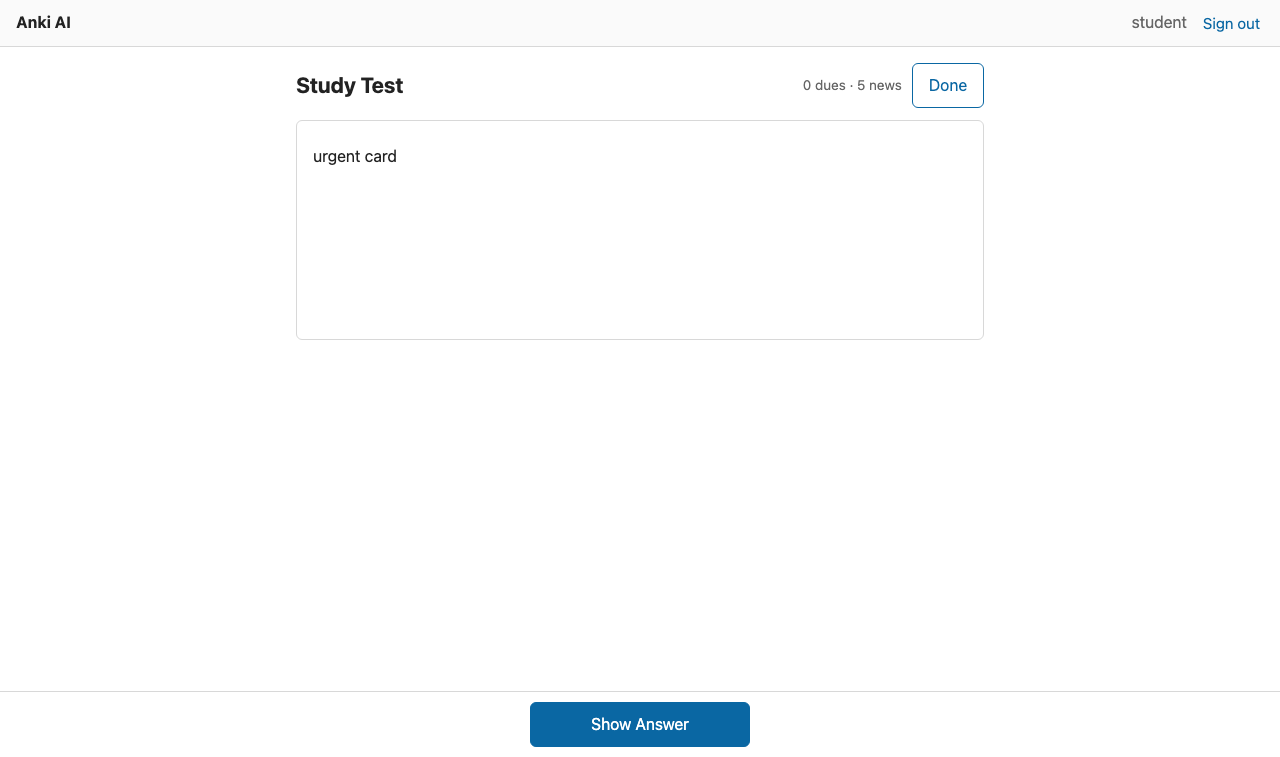
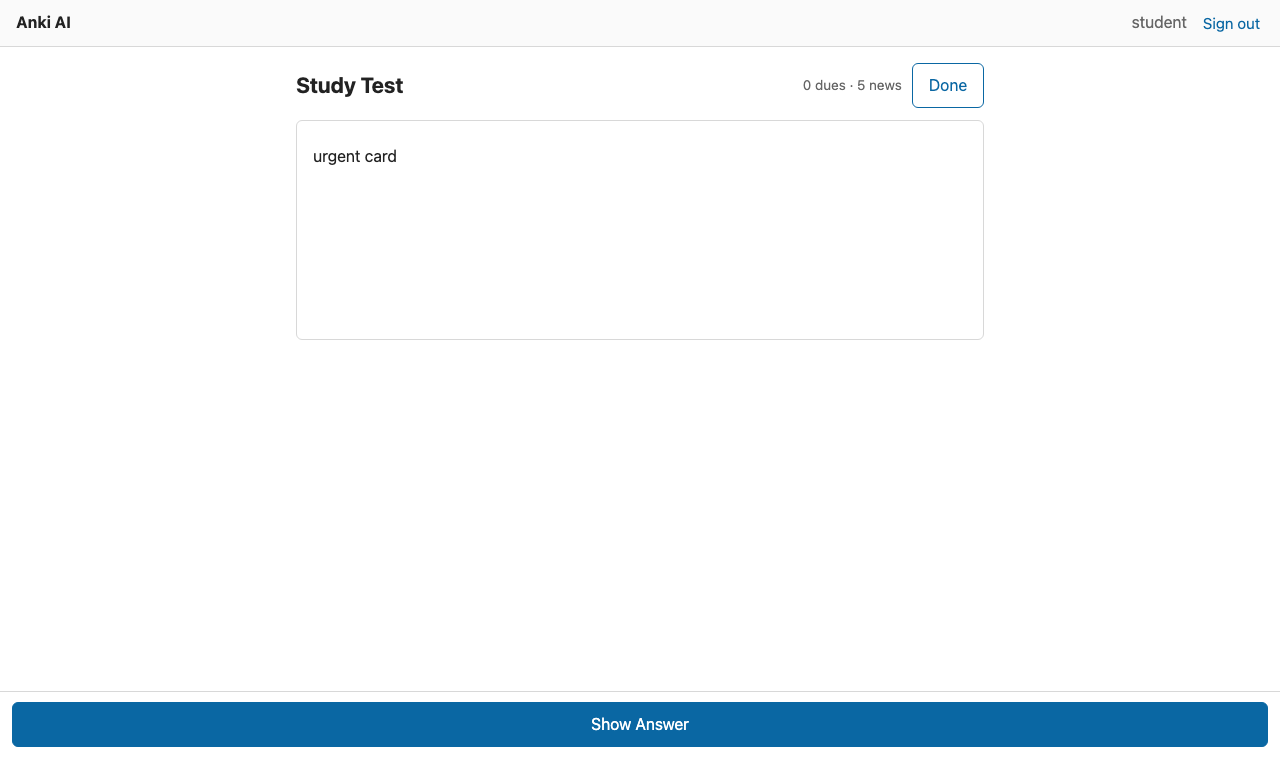
Make Show Answer span the full answer bar width
The question-side reveal button had the same 220px max-width as the
rating buttons; it now fills the pinned bar (padding aside) like
AnkiDroid's reveal button. The four rating buttons stay 4-across.

Verified at desktop and mobile widths (spans all but the 24px bar
padding); assertion added to the study E2E test. Evidence:
screenshots/showanswer_fullwidth_{desktop,mobile}.png

Changed region(s): [[0.5625, 0.9115, 1.0, 1.0], [0.0, 0.9115, 0.4375, 1.0]]

diff --git a/app/assets/stylesheets/application.css b/app/assets/stylesheets/application.css
@@ -128,6 +128,7 @@ button.linklike {
   border-top: 1px solid var(--border);
 }
 .answer-bar .btn { flex: 1 1 0; min-width: 0; max-width: 220px; text-align: center; white-space: nowrap; }
+.answer-bar .btn--block { max-width: none; } /* Show Answer: spans the whole bar */
 .answer-bar .btn small { display: block; font-size: 0.75rem; opacity: 0.85; }
 .study-card { margin-bottom: 110px; } /* scrolled content clears the bar */
 

diff --git a/test/system/study_deck_test.rb b/test/system/study_deck_test.rb
@@ -48,6 +48,15 @@ class StudyDeckTest < ApplicationSystemTestCase
     assert_equal "fixed", page.evaluate_script(
       "getComputedStyle(document.querySelector('.answer-bar')).position"
     )
+    # ...and spans the full bar width (padding aside)
+    spans_bar = page.evaluate_script(<<~JS)
+      (() => {
+        const bar = document.querySelector(".answer-bar").getBoundingClientRect();
+        const btn = document.querySelector(".answer-bar input[value='Show Answer']").getBoundingClientRect();
+        return bar.width - btn.width < 26;
+      })()
+    JS
+    assert spans_bar, "Show Answer should span the full answer bar width"
     evidence("step3_study_question")
 
     click_submit("Show Answer")
